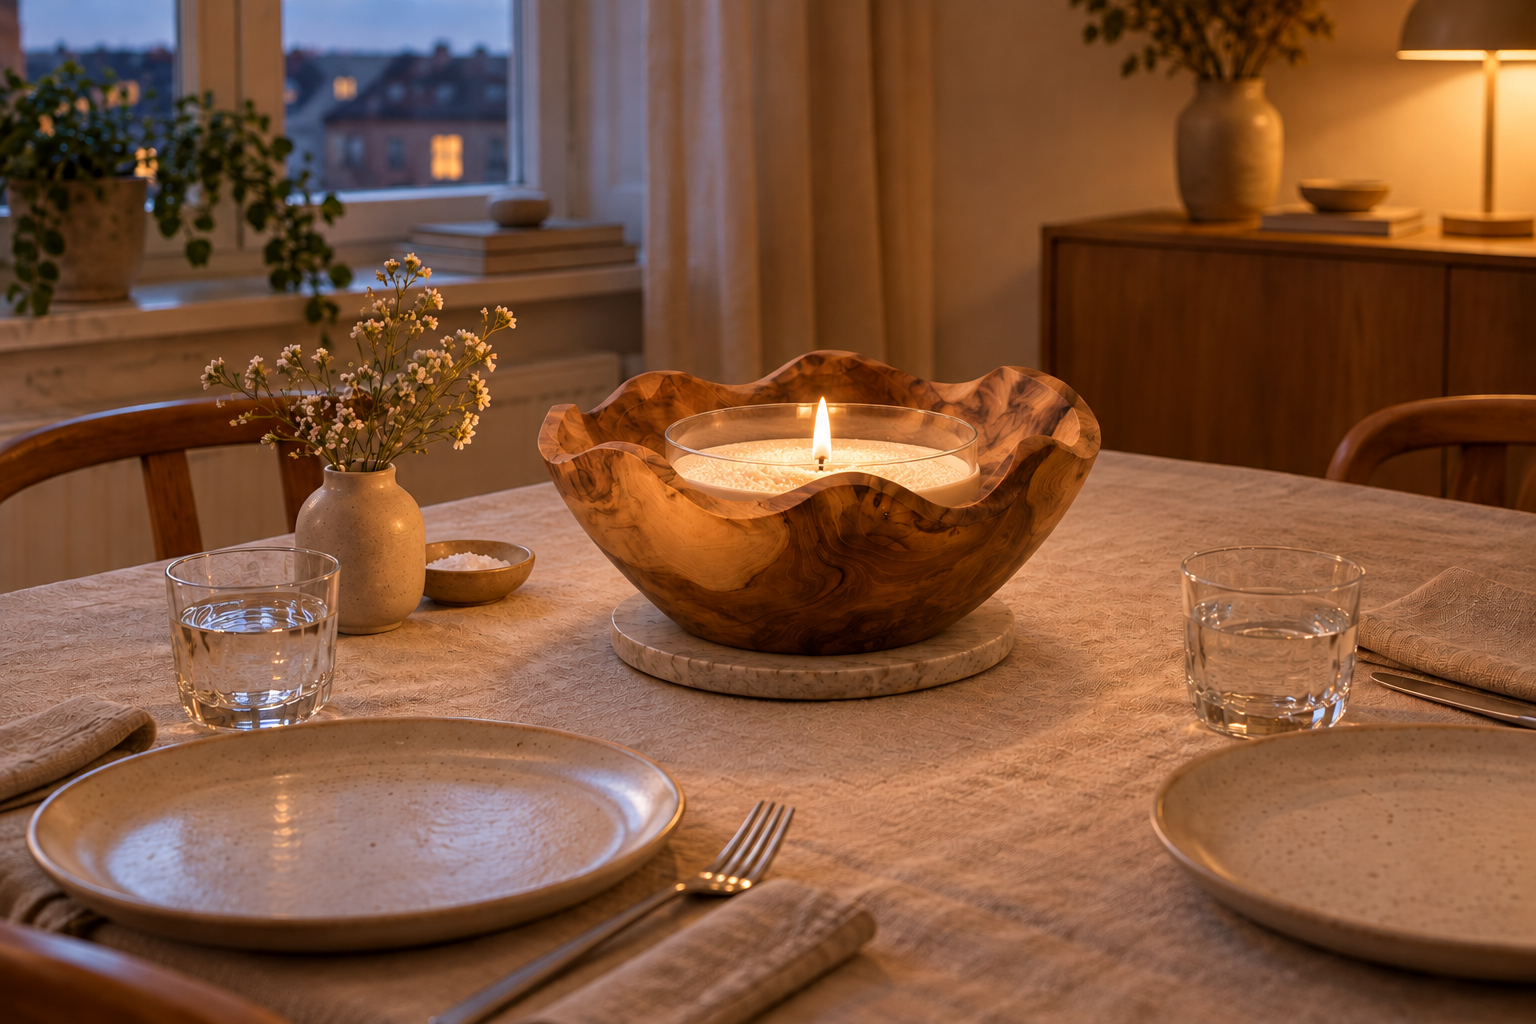
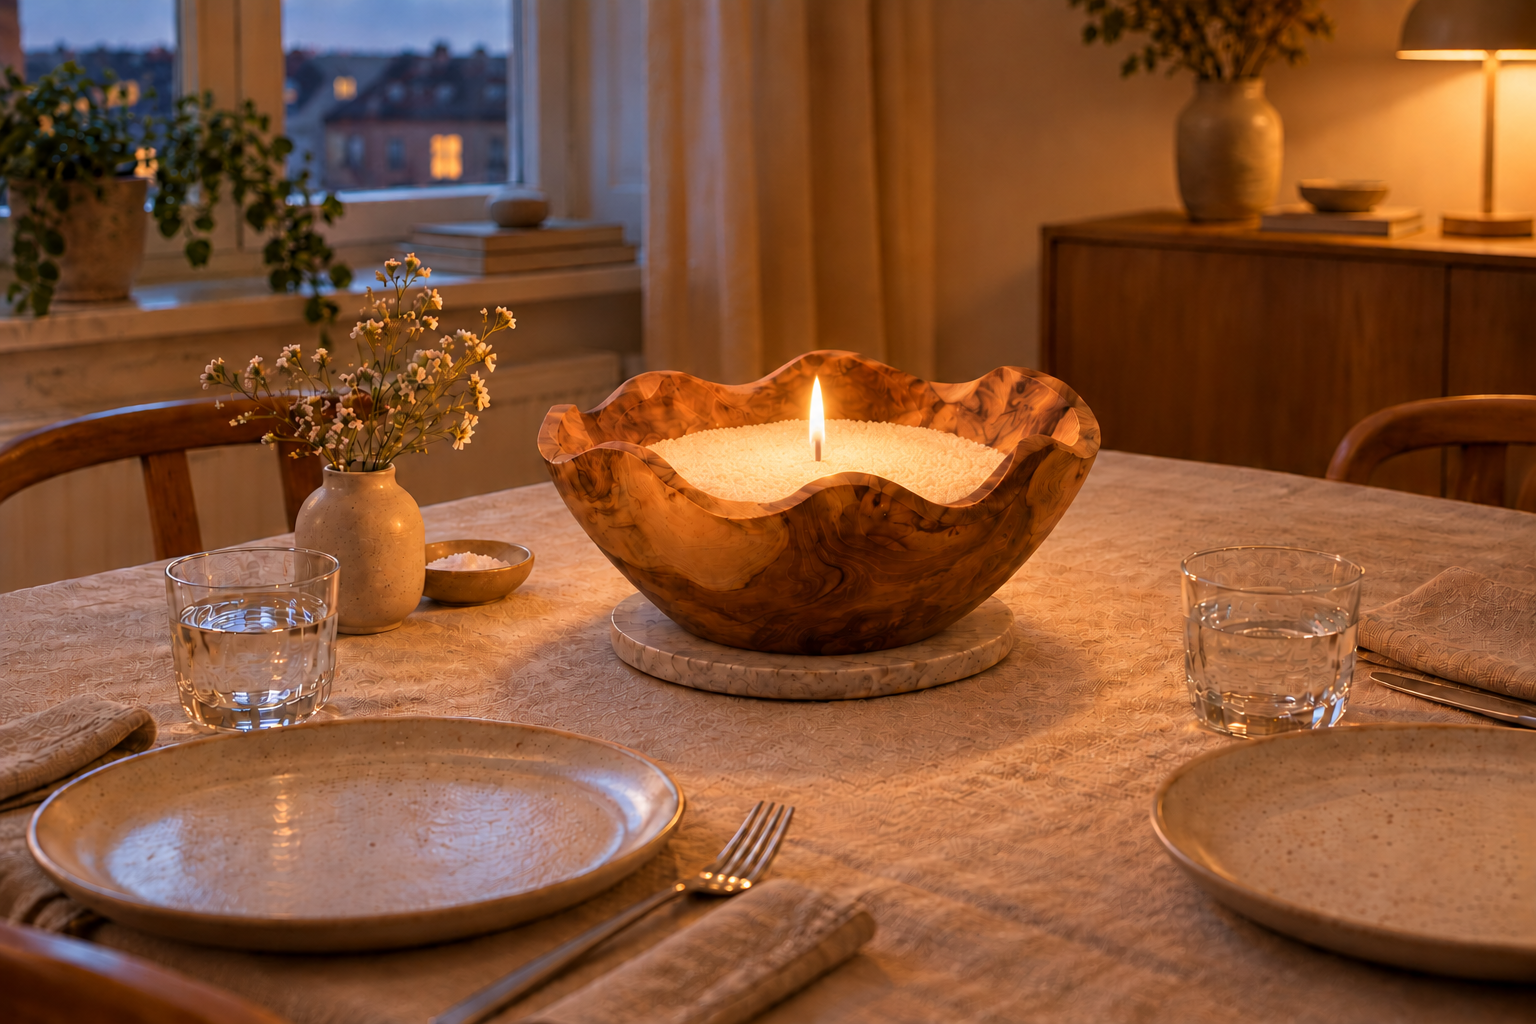
Correct lifestyle images to show lit Luma directly inside Alva

diff --git a/src/components/product/product-inspiration.tsx b/src/components/product/product-inspiration.tsx
@@ -7,8 +7,8 @@ const settings = [
     sv: "Kvällsro",
     en: "A quiet evening",
     alt: {
-      sv: "AI-skapad miljö: Luma ljussand i en glasinsats inuti Alva teakskål på ett soffbord.",
-      en: "AI-styled setting: Luma candle sand in a glass insert inside the Alva teak bowl on a coffee table.",
+      sv: "AI-skapad miljö: Luma ljussand i Alva teakskål med en tänd veke på ett soffbord.",
+      en: "AI-styled setting: Luma candle sand in the Alva teak bowl with a lit wick on a coffee table.",
     },
   },
   {
@@ -16,8 +16,8 @@ const settings = [
     sv: "Middag för två",
     en: "Dinner for two",
     alt: {
-      sv: "AI-skapad miljö: Alva teakskål med Luma ljussand i en glasinsats på ett dukat middagsbord.",
-      en: "AI-styled setting: the Alva teak bowl with Luma candle sand in a glass insert on a dinner table.",
+      sv: "AI-skapad miljö: Alva teakskål med Luma ljussand och en tänd veke på ett dukat middagsbord.",
+      en: "AI-styled setting: the Alva teak bowl with Luma candle sand and a lit wick on a dinner table.",
     },
   },
   {
@@ -25,8 +25,8 @@ const settings = [
     sv: "Din läshörna",
     en: "Your reading corner",
     alt: {
-      sv: "AI-skapad miljö: Luma ljussand i en glasinsats inuti Alva teakskål på ett sidobord vid en fåtölj.",
-      en: "AI-styled setting: Luma candle sand in a glass insert inside the Alva teak bowl on a side table beside an armchair.",
+      sv: "AI-skapad miljö: Luma ljussand i Alva teakskål med en tänd veke på ett sidobord vid en fåtölj.",
+      en: "AI-styled setting: Luma candle sand in the Alva teak bowl with a lit wick on a side table beside an armchair.",
     },
   },
 ] as const;
@@ -44,8 +44,8 @@ export function ProductInspiration({ locale }: { locale: Locale }) {
       </h2>
       <p>
         {locale === "sv"
-          ? "AI-skapade miljöbilder med glasinsats. Insats och styling ingår inte. Tänd aldrig ljus direkt i träskålen."
-          : "AI-styled inspiration with a glass insert. Insert and styling accessories are not included. Never burn candles directly in the wooden bowl."}
+          ? "AI-skapade inspirationsbilder. Följ alltid produktens användningsanvisningar. Styling ingår inte."
+          : "AI-styled inspiration. Always follow the product's use instructions. Styling accessories are not included."}
       </p>
       <div
         className="inspiration-gallery"

diff --git a/tests/e2e/purchase-cro.spec.ts b/tests/e2e/purchase-cro.spec.ts
@@ -51,7 +51,7 @@ test("inline offers fit a narrow phone and keep preview purchases disabled", asy
   const inspiration = page.getByRole("region", { name: "Home inspiration" });
   await expect(inspiration.getByRole("img")).toHaveCount(3);
   await expect(
-    page.getByText(/Insert and styling accessories are not included/),
+    page.getByText(/Styling accessories are not included/),
   ).toBeVisible();
   expect(
     await page.evaluate(
